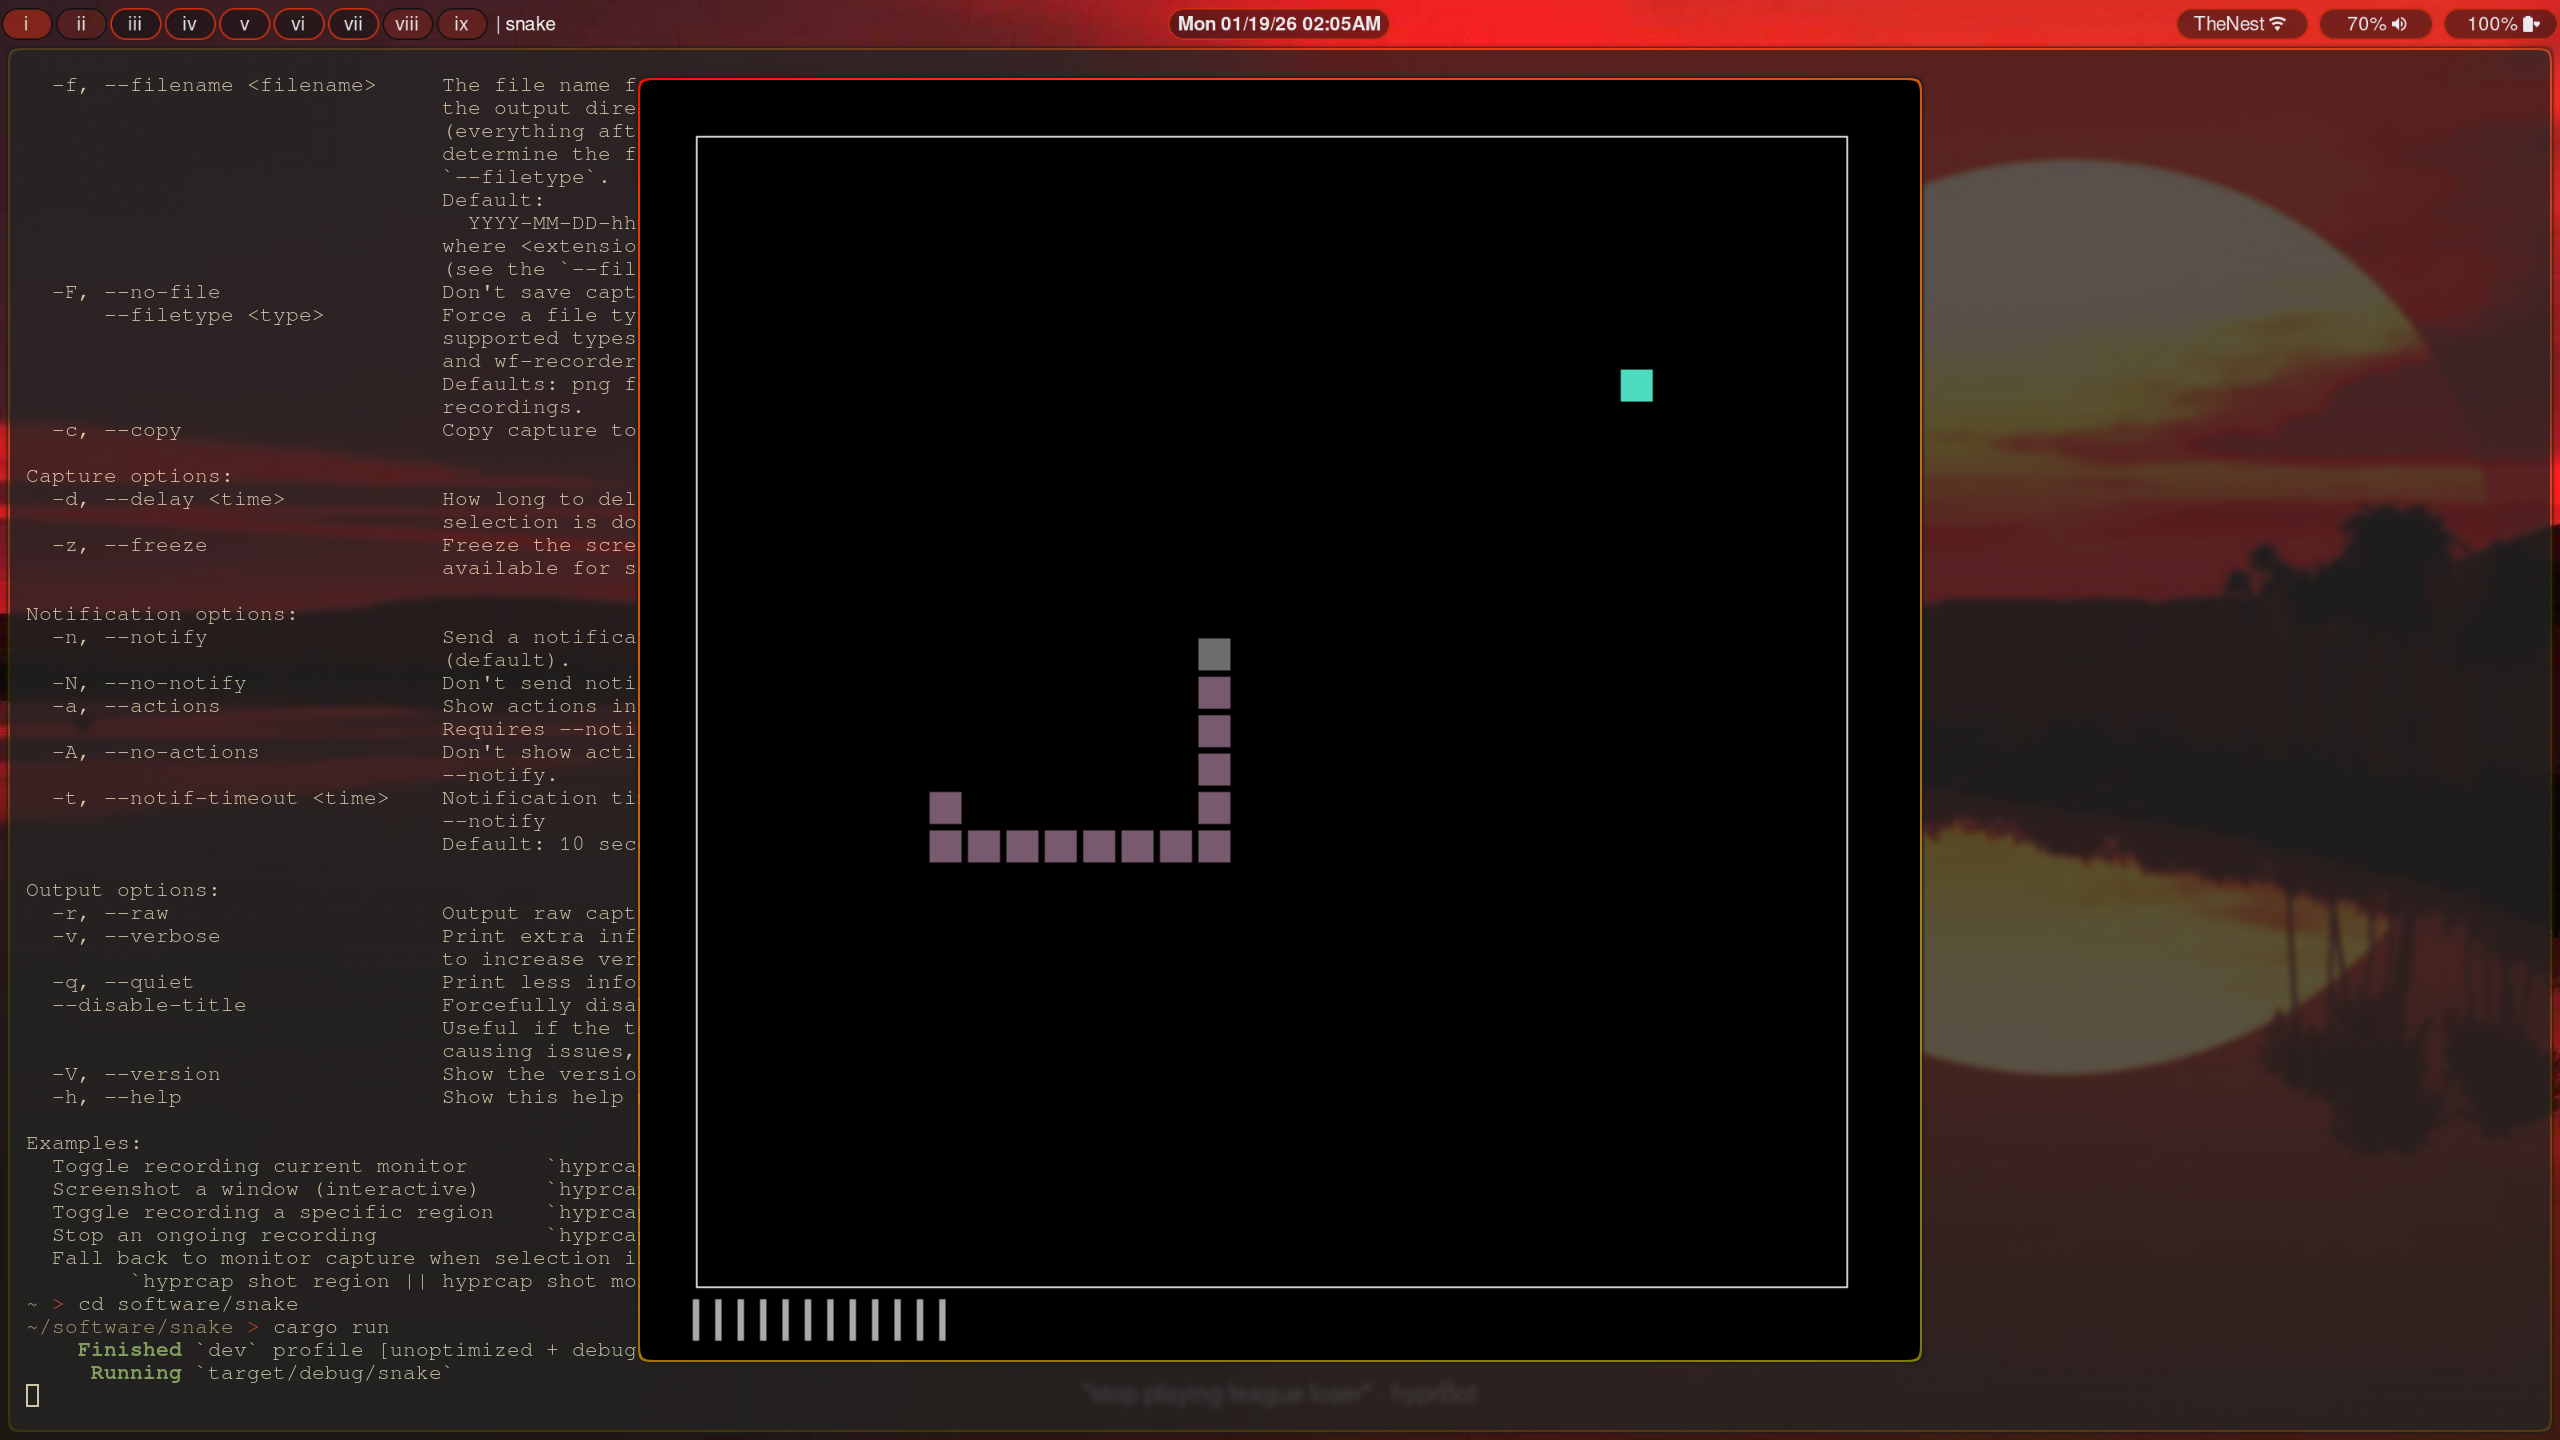
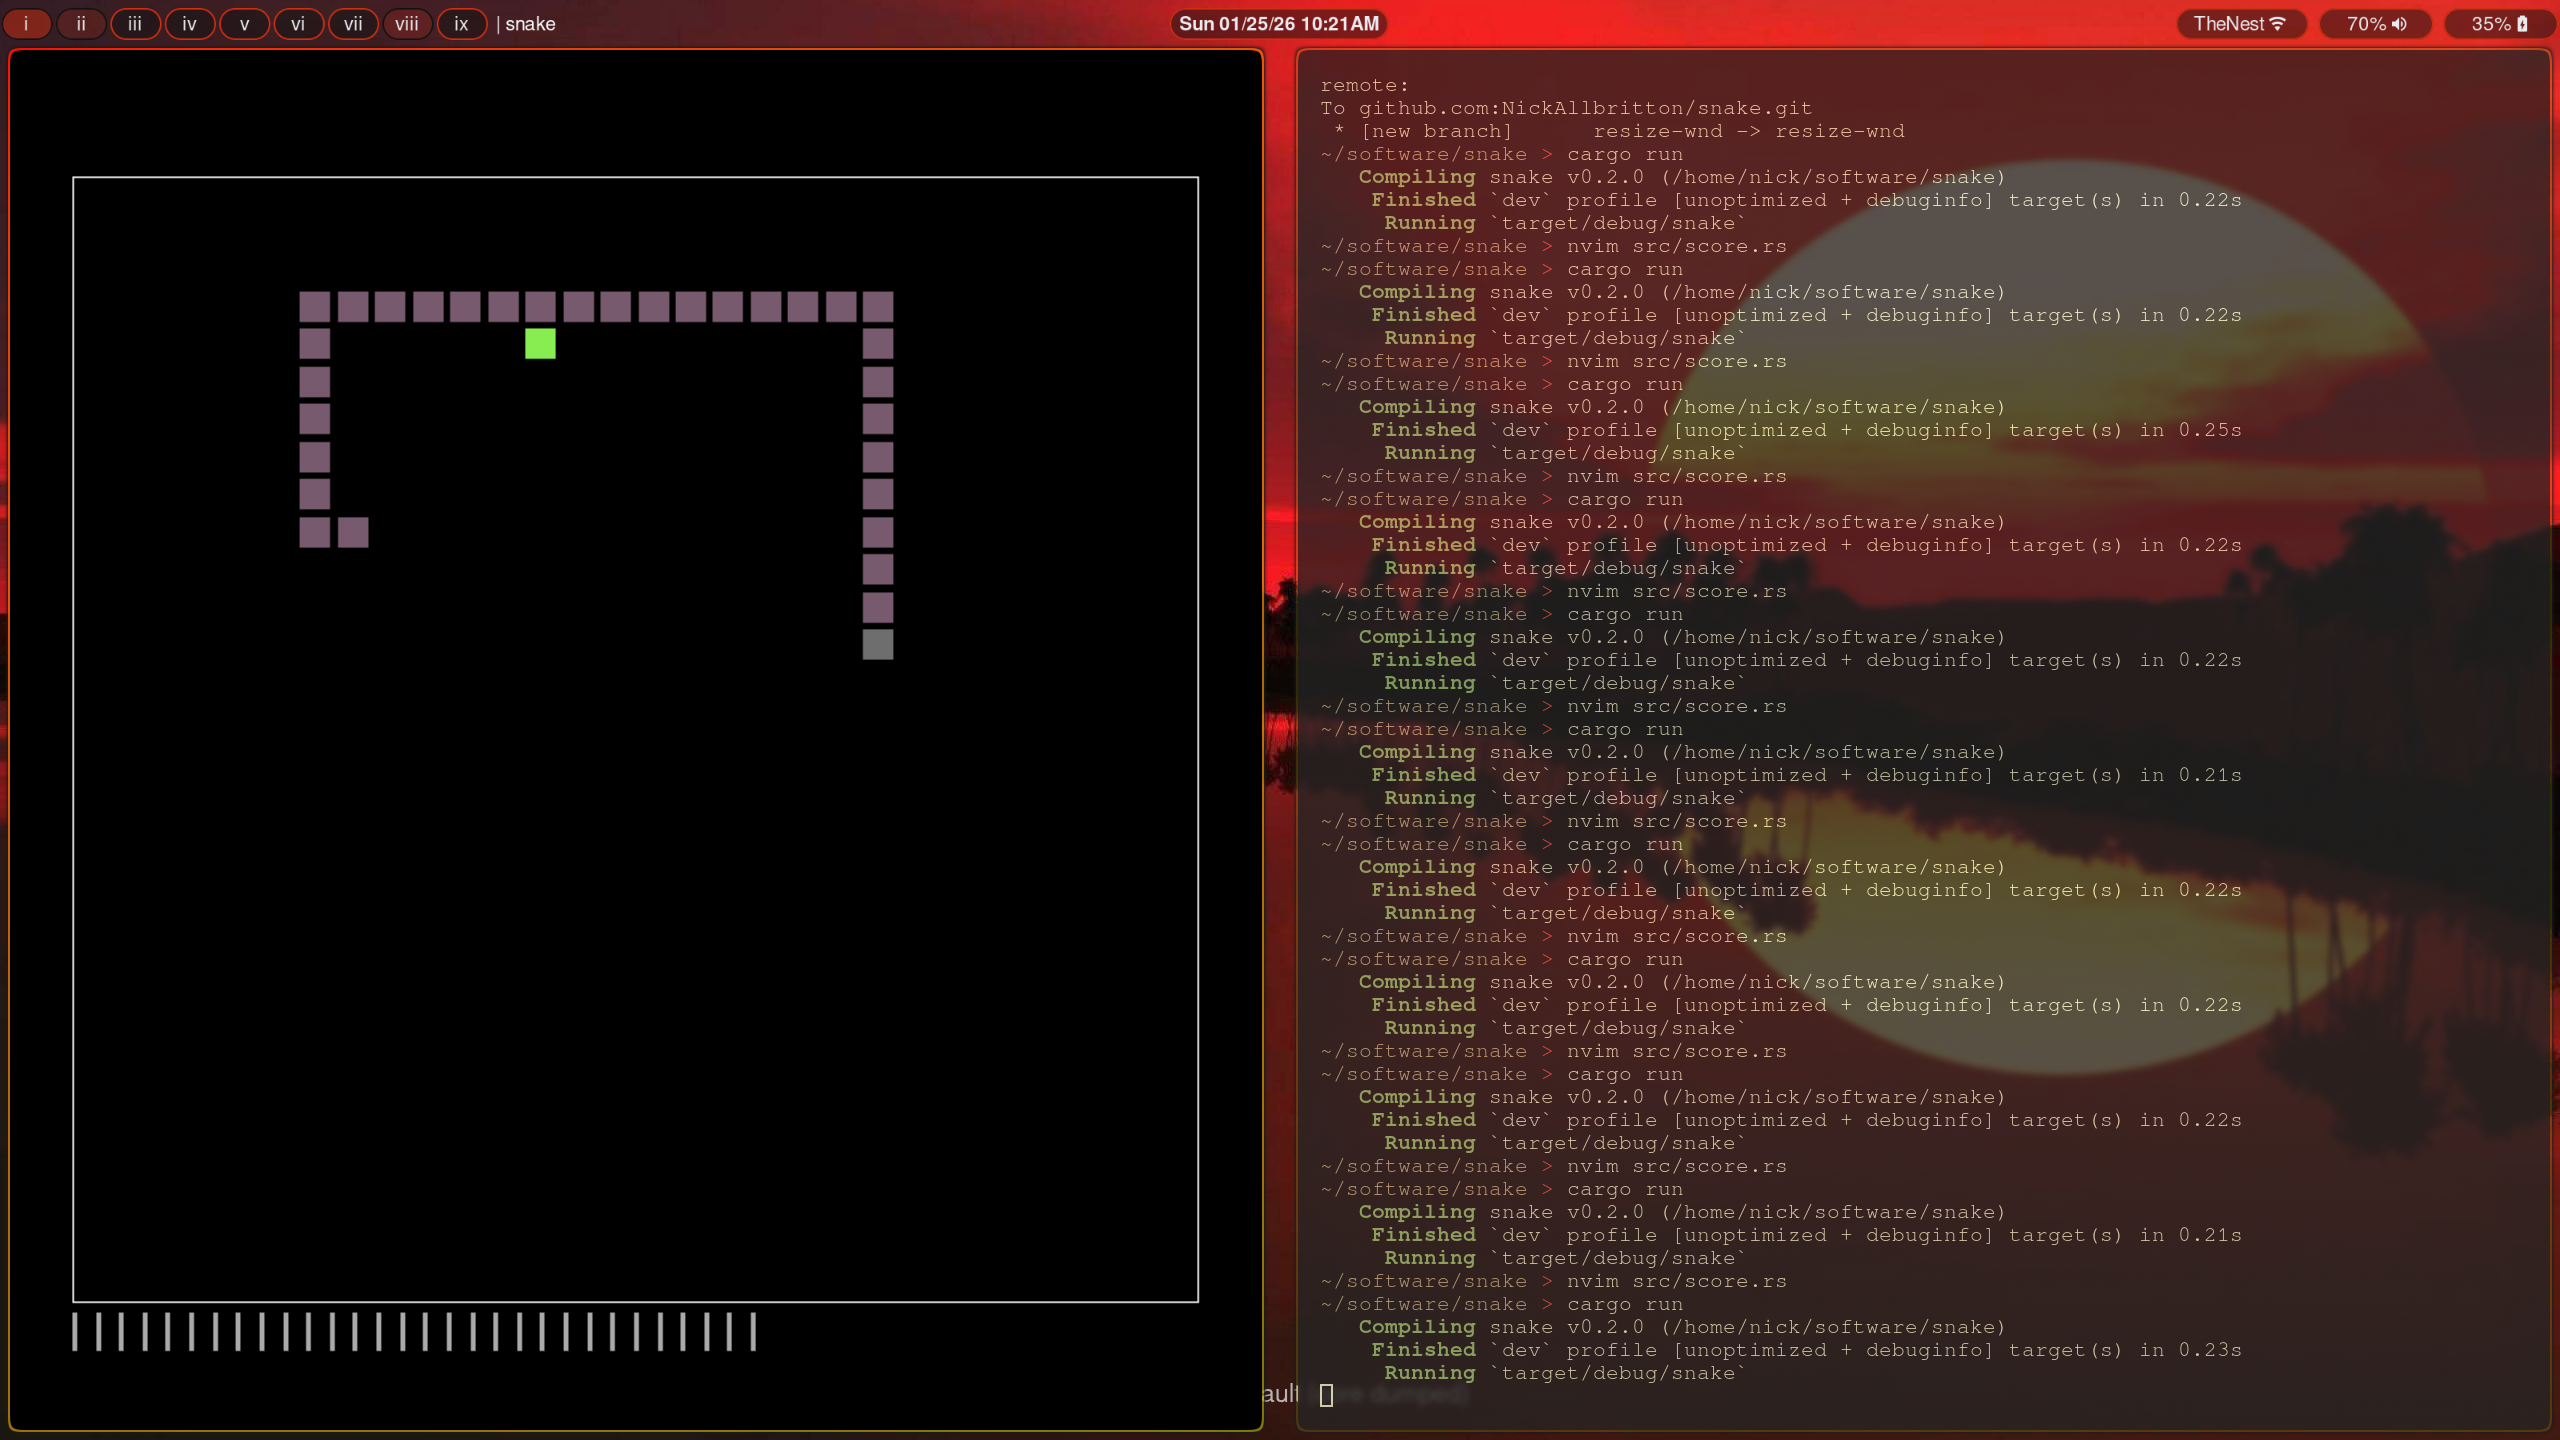
aesthetic tweaks to score tally marks

diff --git a/src/score.rs b/src/score.rs
@@ -25,11 +25,11 @@ impl ScoreBoard {
         // Length of tallies should be less than 5% of side length.
         let tally_height: f32 = smallest_side*3f32/100f32;
         // Width of the tallies should be much smaller
-        let tally_width: f32 = smallest_side*1f32/300f32;
+        let tally_width: f32 = smallest_side*1f32/350f32;
         // Padding between edge of board and nearest tallies (not between tallies)
-        let padding_edge: f32 = smallest_side*3f32/200f32;
+        let padding_edge: f32 = smallest_side*3f32/400f32;
         // Score per side (before tallies wrap to next side of board border
-        let score_per_side: u32 = 29;
+        let score_per_side: u32 = 49;
         // Padding between tallies (algebra comes from geometry where there are n-1 paddings for
         // ntallies per side with type chaos preventing code readibility... refactor?
         // p - padding between tallies (padding_between)

diff --git a/README.md b/README.md
@@ -13,3 +13,9 @@ a goal is collected the snake speeds up by 1%.
 ![Current look of the game while running.](./screenshots/Current.png)
 
 ![Current look when dead.](./screenshots/Current2.png)
+
+
+## Resizable 
+Resizable by user, window manager, or operating system to any reasonable degree as seen in the screenshot below.
+
+![Several terminals open in one workspace with snake open, as well. Format does not break. Game is still playable.](./screenshots/Current3.png)
